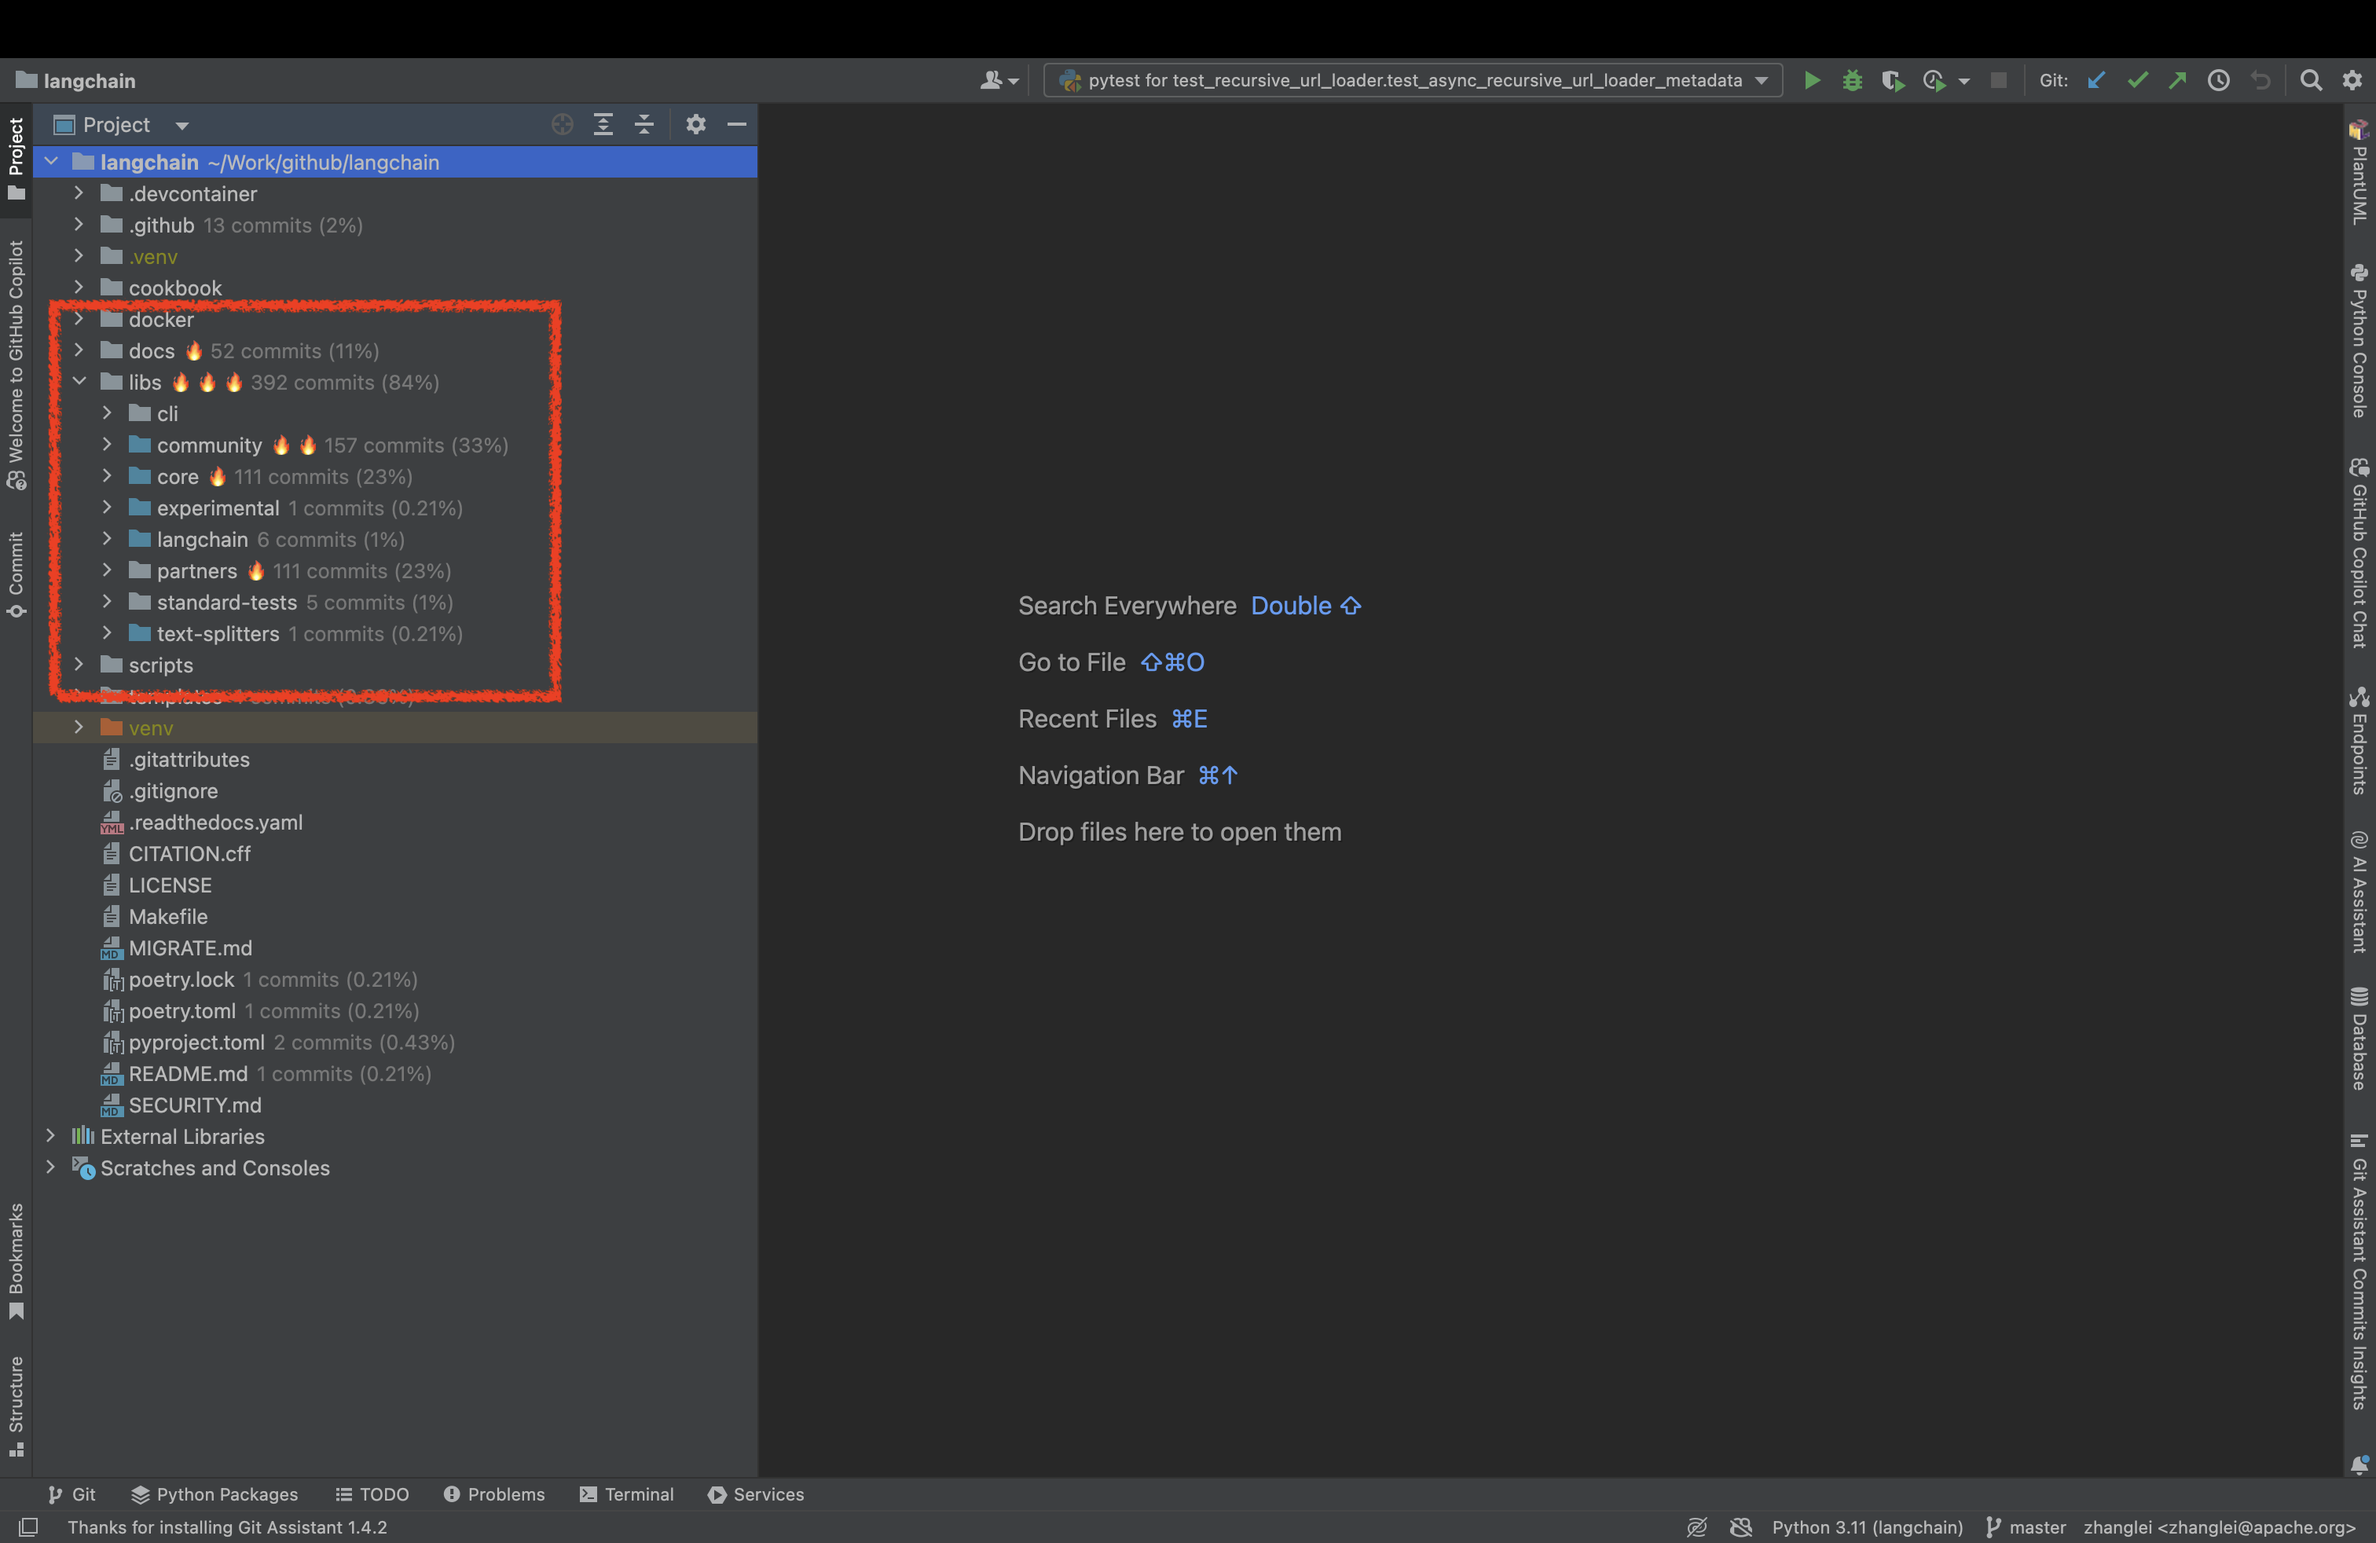
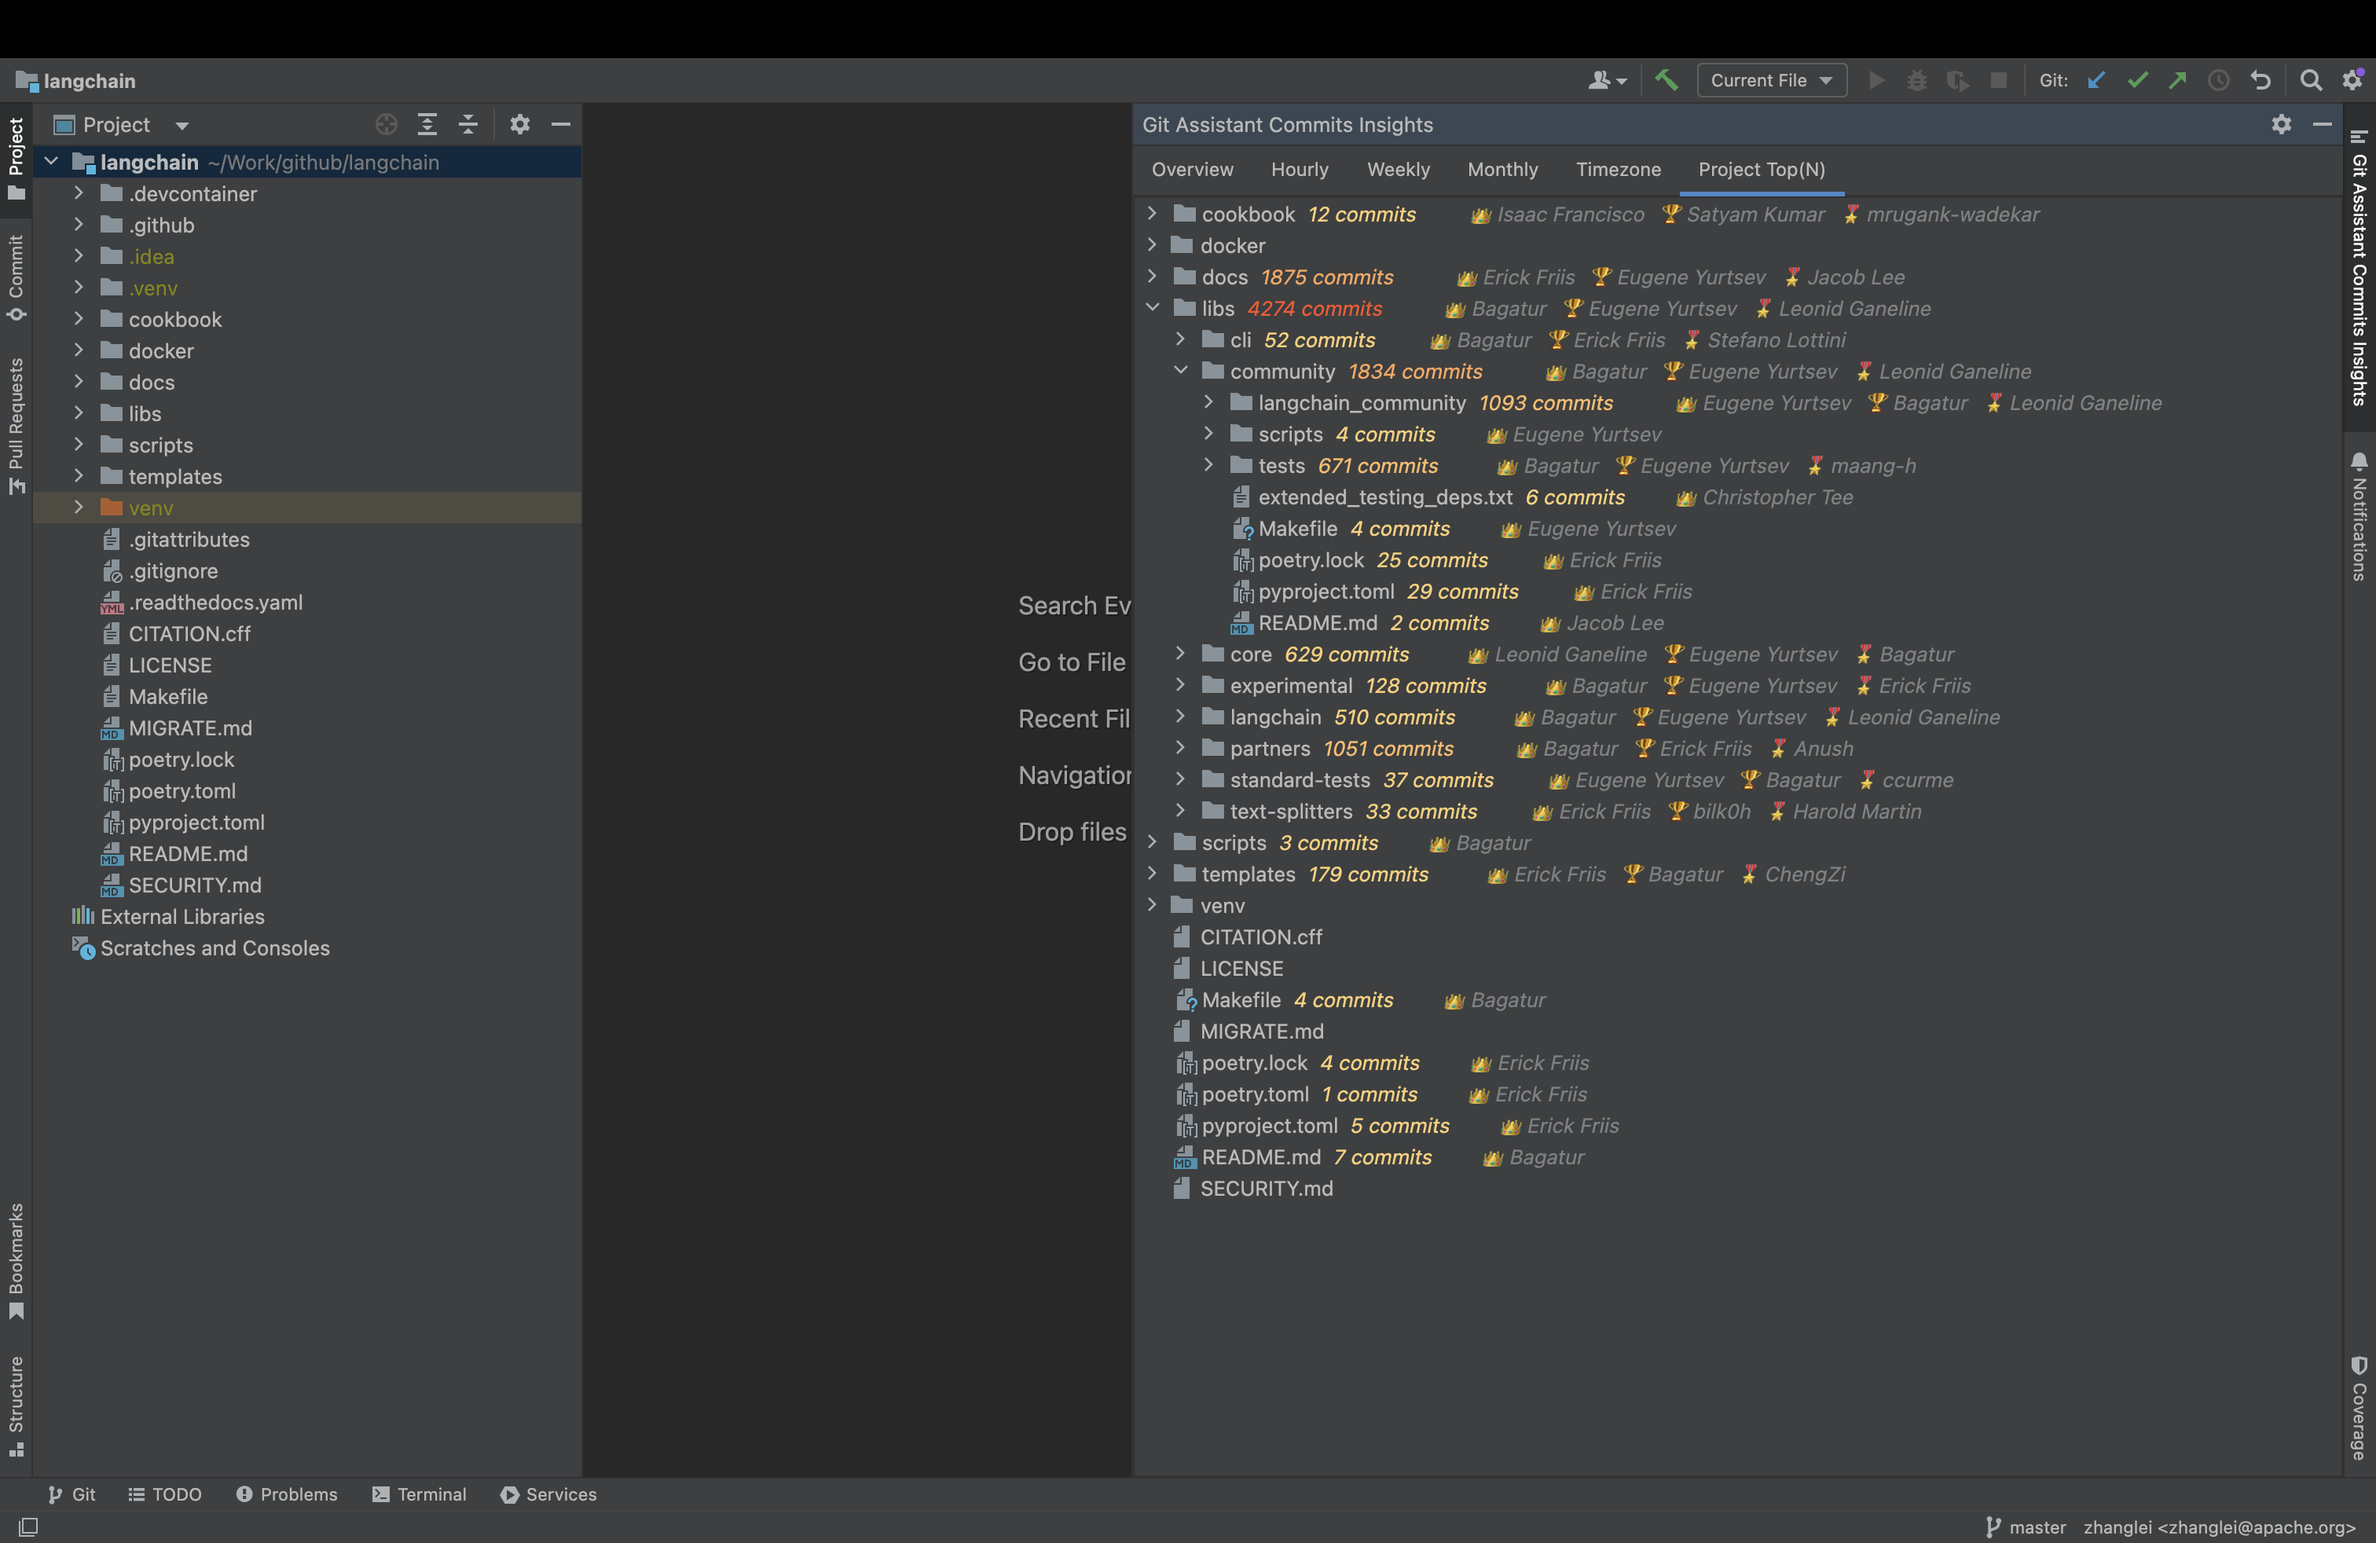
update git plugin

diff --git a/content/posts/git-assistant-intellij-plugin/git-assistant-commit-insights.md b/content/posts/git-assistant-intellij-plugin/git-assistant-commit-insights.md
@@ -11,7 +11,7 @@ Git Assistant Insights 窗口为用户提供了一系列强大的分析工具。
 
 - Hour/Weekday/Month 功能能够根据小时、周、月来分析团队活动的时间分布情况，从而优化工作安排和任务分配。
 - Timezone 功能可以可视化展示代码贡献的时区分布情况，使全球团队的协作变得可见可感。
-- 在左侧的项目树中还提供了热点文件和热点目录的分析功能，帮助开发者更好地了解项目最近哪些文件和目录发生了较多的变更。
+- Project Top(N) 功能可以了解到最新的变化热点和关键开发者。
 
 ### 安装 Git Assistant 插件
 
@@ -22,21 +22,21 @@ Git Assistant Insights 窗口为用户提供了一系列强大的分析工具。
 
 ### 提交信息可视化洞察
 
-在 Overview 面板可以展示代码库中贡献最多的开发者，有助于发现和表彰优秀贡献者，提升团队的协作和竞争力。
+**贡献者排名：** 查看谁在您的仓库排行榜上名列前茅。它既有趣又有竞争力，信息量丰富！
 
 ![screenshot-commits-contributor.png](/images/posts/git-assistant-intellij-plugin/screenshot-commits-contributor.png)
 
-在 Hour/Weekday/Month 面板可以展示团队活动的时间分布情况，从而优化工作安排和任务分配。
+**提交时间分析：** 发现您的团队最活跃的时间——按小时、周、月或年。您是夜猫子还是早起的人？
 
 ![screenshot-commits-hour.png](/images/posts/git-assistant-intellij-plugin/screenshot-commits-hour.png)
 ![screenshot-commits-weekday.png](/images/posts/git-assistant-intellij-plugin/screenshot-commits-weekday.png)
 ![screenshot-commits-month.png](/images/posts/git-assistant-intellij-plugin/screenshot-commits-month.png)
 
-在 Timezone 面板可以展示代码贡献的时区分布情况，使全球团队的协作变得可见可感。
+**时区分布：** 可视化您的提交来自世界哪个地方。全球团队合作变得清晰可见！使用对数尺改善视觉呈现
 
 ![screenshot-commits-timezone.png](/images/posts/git-assistant-intellij-plugin/screenshot-commits-timezone.png)
 
-在 Project View 面板可以展示热点文件和热点目录的分析功能，帮助开发者更好地了解项目最近哪些文件和目录发生了较多的变更。
+**热点信息：** 看看最近哪个模块修改频繁，谁是最重要的人
 
 ![screenshot-commits-projectview.png](/images/posts/git-assistant-intellij-plugin/screenshot-commits-projectview.png)
 
